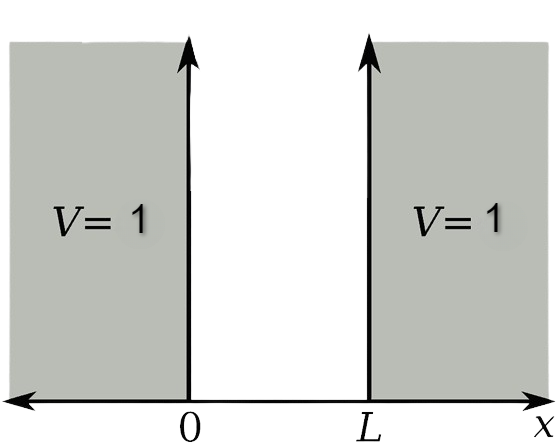
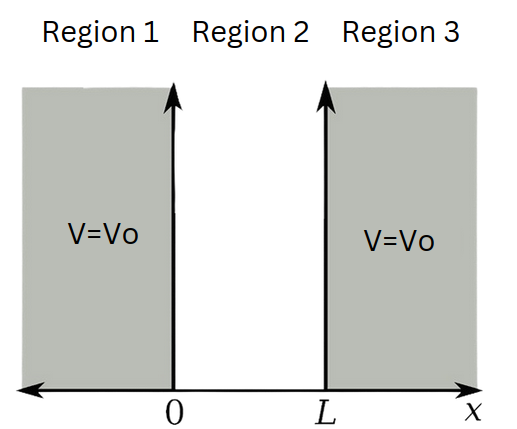
final.rev

Changed region(s): [[0.0, 0.0303, 0.9903, 1.0], [0.0928, 0.4545, 0.2785, 0.5758]]

diff --git a/experiment/simulation/main.js b/experiment/simulation/main.js
@@ -249,9 +249,9 @@ function Visualize_INF() {
     //     console.error("Missing input elements.");
     //     return;
     // }
-    const Vo = Math.min(parseInt(document.getElementById('potential').value), 8);
+    const Vo = Math.min(1, 8);
     const n = parseInt(document.getElementById('w2').value);
-    const L = Math.max(10 - parseInt(document.getElementById('length').value), Math.ceil(n *1.5));
+    const L = Math.max(10 - 1, Math.ceil(n *1.5));
   
     
   
@@ -469,7 +469,7 @@ function Visualize_INF() {
   
   function navNext1a() {
     document.getElementById("canvas1").style.visibility = "hidden";
-    document.getElementById("canvas1a").style.visibility = "visible";
+    document.getElementById("canvas1b").style.visibility = "visible";
     setTimeout(function () {
       document.getElementById('"arw1"').style.visibility = "visible";
       document.getElementById('button50').style.visibility = "visible";
@@ -502,23 +502,13 @@ function Visualize_INF() {
   
   function navNext1c() {
     // document.getElementById("canvas1b").style.visibility = "hidden";
+    document.getElementById("canvas3").style.visibility = "visible";
+    
+  }
+  function navNext3() {
+    // document.getElementById("canvas1b").style.visibility = "hidden";
     document.getElementById("canvas1c").style.visibility = "visible";
-    // document.getElementById('addspecimen2b').style.visibility = "visible";
-    // document.getElementById("nextButton2").style.visibility = "hidden";
-    // document.getElementById('text16').style.visibility = "hidden";
-    // document.getElementById('box6').style.visibility = "hidden";
-    // document.getElementById('text17').style.visibility = "hidden";
-    // document.getElementById('text17b').style.visibility = "hidden";
-    // document.getElementById('box7').style.visibility = "hidden";
-    // document.getElementById('text18').style.visibility = "hidden";
-    // document.getElementById('text18b').style.visibility = "hidden";
-    // document.getElementById('box8').style.visibility = "hidden";
-    // document.getElementById('text19').style.visibility = "hidden";
-    // document.getElementById('text19b').style.visibility = "hidden";
-    // document.getElementById('eq1').style.visibility = "hidden";
-    // document.getElementById('eq2').style.visibility = "hidden";
-    // document.getElementById('eq3').style.visibility = "hidden";
-    // document.getElementById('eq4').style.visibility = "hidden";
+    
   }
   
   

diff --git a/experiment/aim.md b/experiment/aim.md
@@ -1,3 +1,3 @@
 # Aim
 
-This lab introduces the Schordinger wave equation (SWE) and solution of SWE for special cases of free space,infinite potential well and finite potential well
+This lab introduces the Schordinger wave equation (SWE) and solution of SWE for special cases of free space,       infinite potential well and finite potential well

diff --git a/experiment/procedure.md b/experiment/procedure.md
@@ -1,1 +1,2 @@
 ### Procedure
+The user  first simulates various SWE  solutions for infinite potential well and then for the finite potential well. The user can learn how the energy and solution changes as value 'n' is increased. the user will also compare the difference in solution between the inifinte and finite potential well.
